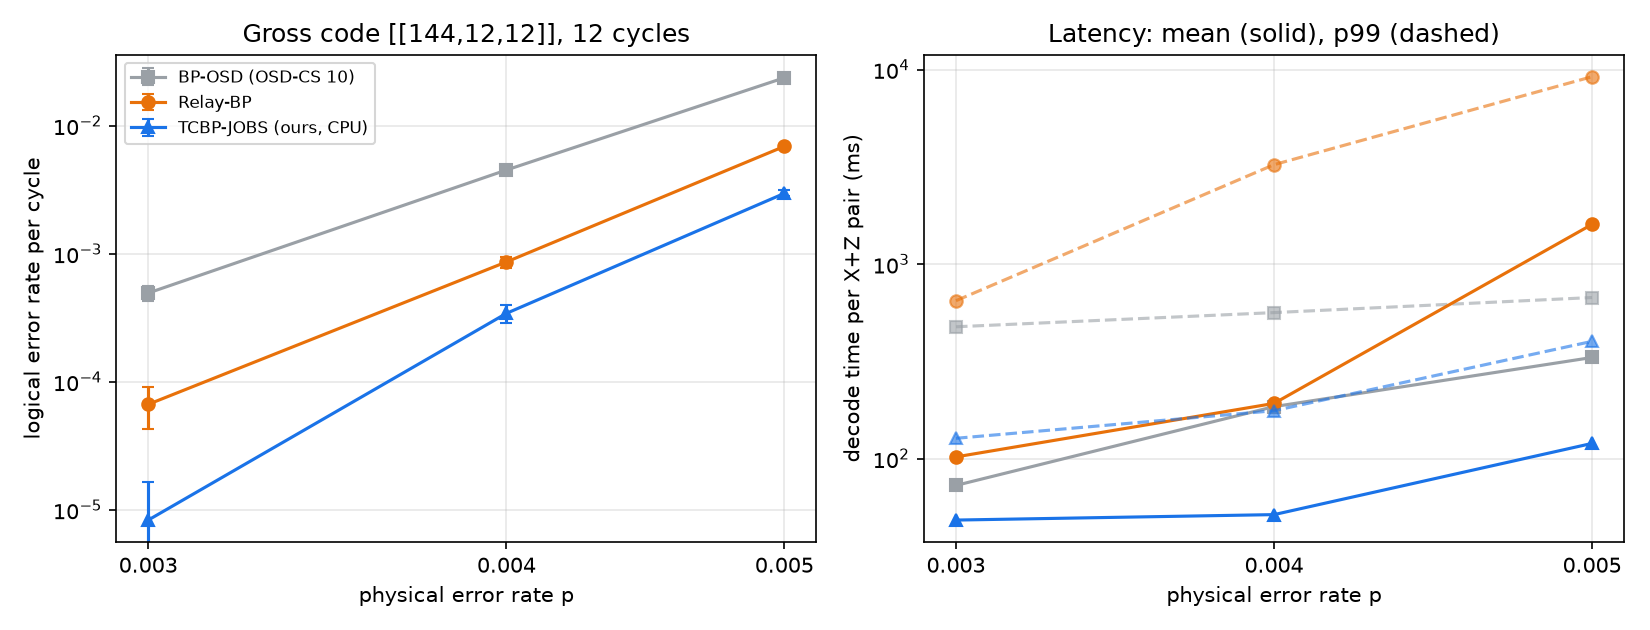
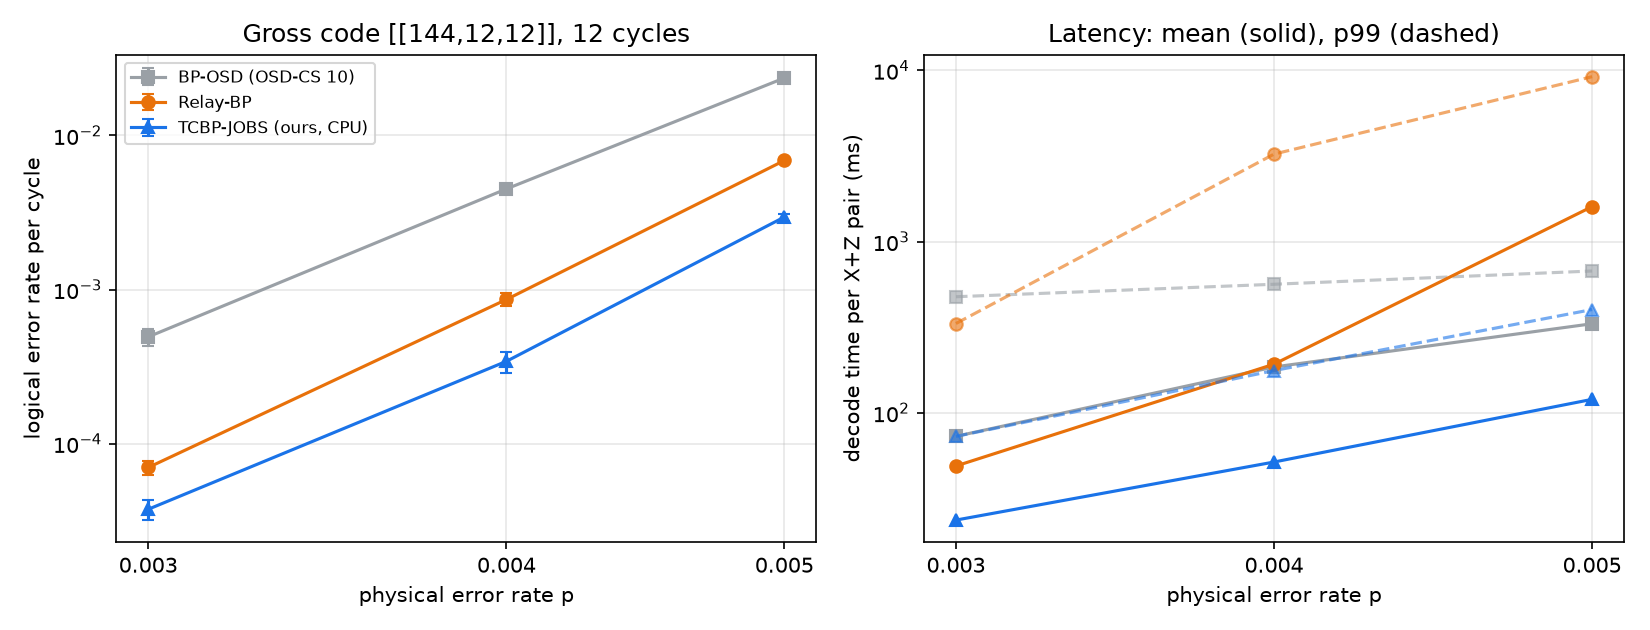
analyze.py: read the 100k-shot p=0.003 records; regenerate plot

diff --git a/challenge-1-ml-decoder-kit/analyze.py b/challenge-1-ml-decoder-kit/analyze.py
@@ -72,9 +72,13 @@ def line(name, s):
 
 def main():
     rows = {}
-    ps = sorted({re.search(r"_p([\d.]+)\.npz", f)[1] for f in glob.glob(os.path.join(OUT, "tcbpjobs_p*.npz"))})
+    ps = sorted({m[1] for f in glob.glob(os.path.join(OUT, "tcbpjobs_p*.npz"))
+                 if (m := re.search(r"tcbpjobs_p([\d.]+?)(?:_100k)?\.npz$", os.path.basename(f)))}, key=float)
     for p in ps:
         tj_path, rl_path = os.path.join(OUT, f"tcbpjobs_p{p}.npz"), os.path.join(OUT, f"relay_p{p}.npz")
+        big_tj, big_rl = os.path.join(OUT, f"tcbpjobs_p{p}_100k.npz"), os.path.join(OUT, f"relay_p{p}_100k.npz")
+        if os.path.exists(big_tj) and os.path.exists(big_rl):      # prefer the 100,000-shot runs
+            tj_path, rl_path = big_tj, big_rl
         tj = load(tj_path)
         print(f"\n=== p = {p}, {int(tj['shots'])} shots per basis (failures [X Z], logical error rate per cycle)")
         b = bposd_from_txt(p)
